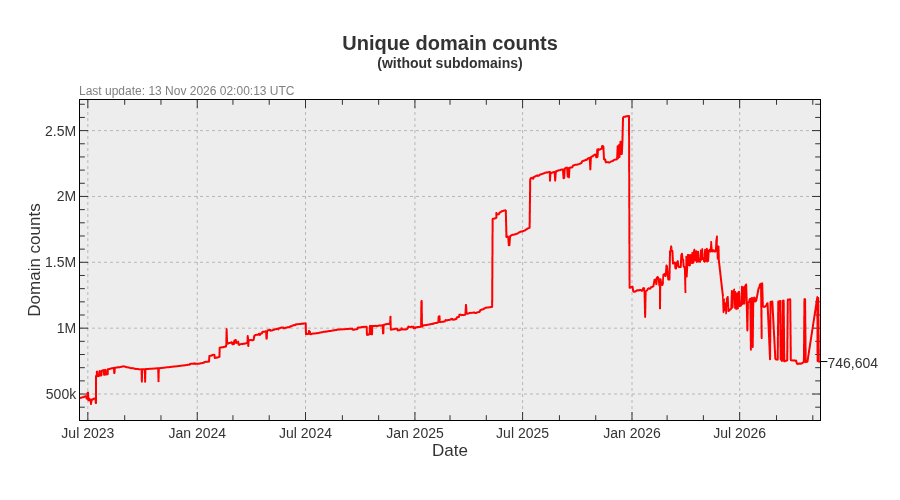
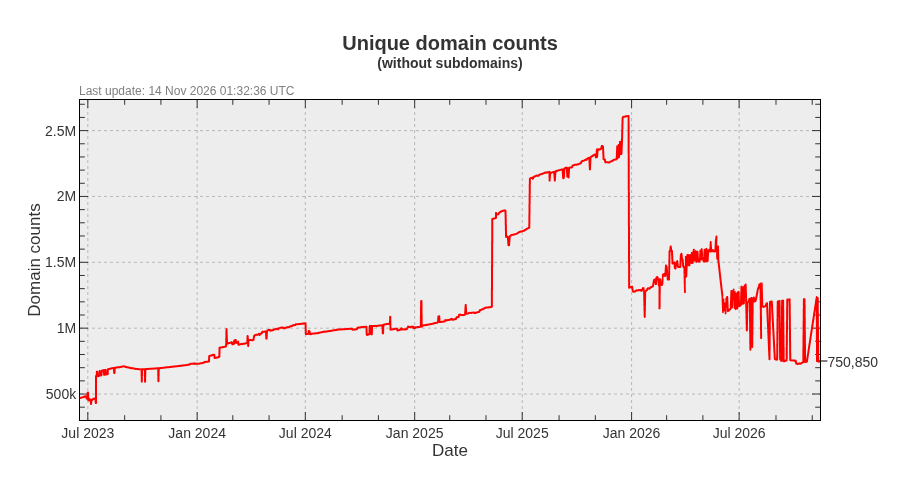
Update pages

diff --git a/README.md b/README.md
@@ -3,22 +3,22 @@ A blocklist file for blocking ads, trackers and malware domains.
 
[1 lines of base64/hex data omitted]
 
-- Unique domains: 1,514,320
-- Without subdomains: 746,604
-- Last update: 13 Nov 2026 02:00:13 UTC
-- Version: 2026.11.13.01
+- Unique domains: 1,519,184
+- Without subdomains: 750,850
+- Last update: 14 Nov 2026 01:32:36 UTC
+- Version: 2026.11.14.01
 
 
 ## Downloads:
 
 | Format             | Domain count      | Download Link |
 |------------------ | -----------------|-------------|
-| *Adblock Plus*     | 746,604 | [bad-hosts-abp](https://dl.cenk.app/bad-hosts/bad-hosts-abp) |
-| *Wildcard domains* | 746,604 | [bad-hosts-wildcard](https://dl.cenk.app/bad-hosts/bad-hosts-wildcard) |
-| *dnsmasq*          | 746,604 | [bad-hosts-dnsmasq](https://dl.cenk.app/bad-hosts/bad-hosts-dnsmasq) |
-| *hosts*            | 1,514,320 | [hosts](https://dl.cenk.app/bad-hosts/hosts) |
-| *hosts (ipv6)*     | 1,514,320 | [hosts-ipv6](https://dl.cenk.app/bad-hosts/hosts-ipv6) |
-| *Plain domains*    | 1,514,320 | [bad-hosts-domains](https://dl.cenk.app/bad-hosts/bad-hosts-domains) |
+| *Adblock Plus*     | 750,850 | [bad-hosts-abp](https://dl.cenk.app/bad-hosts/bad-hosts-abp) |
+| *Wildcard domains* | 750,850 | [bad-hosts-wildcard](https://dl.cenk.app/bad-hosts/bad-hosts-wildcard) |
+| *dnsmasq*          | 750,850 | [bad-hosts-dnsmasq](https://dl.cenk.app/bad-hosts/bad-hosts-dnsmasq) |
+| *hosts*            | 1,519,184 | [hosts](https://dl.cenk.app/bad-hosts/hosts) |
+| *hosts (ipv6)*     | 1,519,184 | [hosts-ipv6](https://dl.cenk.app/bad-hosts/hosts-ipv6) |
+| *Plain domains*    | 1,519,184 | [bad-hosts-domains](https://dl.cenk.app/bad-hosts/bad-hosts-domains) |
 
 ## Domain count history
 ### With subdomains
